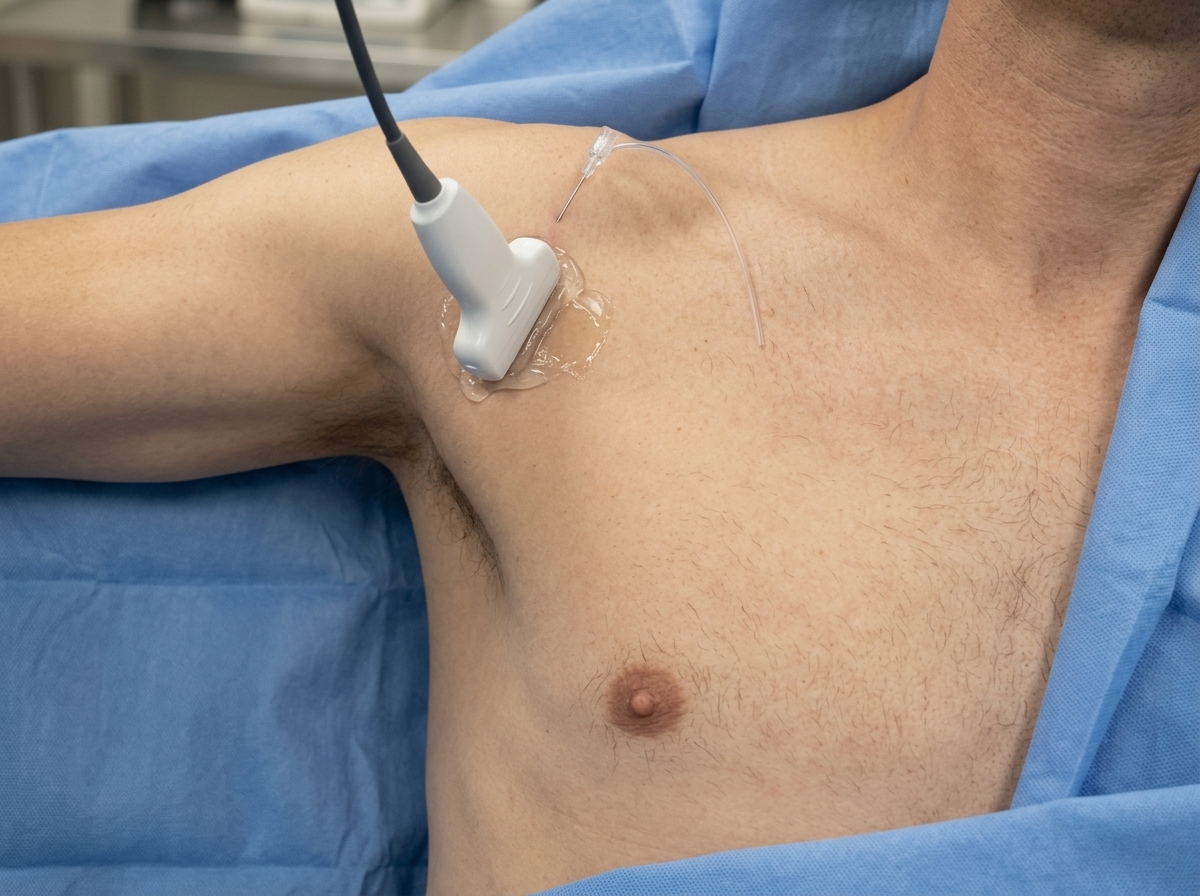
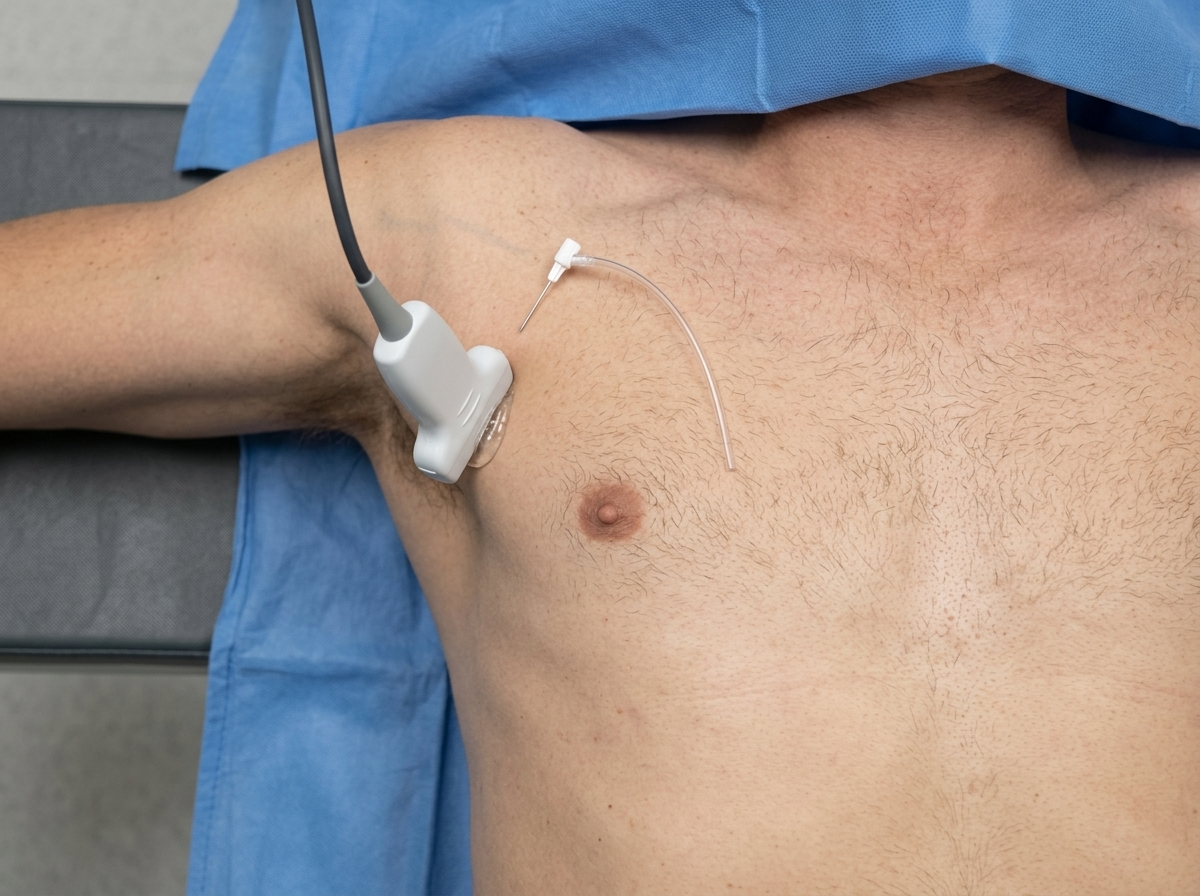
PENG (2), PECS anatomy, pericardiocentesis needle path: ship the approved plates; PECS II position
PECS record (owner, 2026-10-02): the PECS II step and the positioning slot
now say to slide the transducer inferolaterally to the 3rd-4th rib at the
anterior axillary line, where serratus comes into view. The positioning
photo is repainted at that position (review draft). Search ranking
baseline updated for the resulting improvement (block_pecs 'chest block'
#6 -> #5).

diff --git a/visuals/pecs_patient_position/draw.py b/visuals/pecs_patient_position/draw.py
@@ -6,10 +6,14 @@ patient's right on the image left (house laterality), so the abducted arm
 runs off the left edge and the sternum is at the right.
 
 Record: supine, arm abducted to 90 degrees; transducer oblique below the
-lateral third of the clavicle; needle in-plane from medial to lateral.
+lateral third of the clavicle, then slid inferolaterally to the 3rd-4th rib
+at the anterior axillary line for PECS II (owner, 2026-10-02: the probe
+belongs at the PECS II position, matching the section); needle in-plane
+from medial to lateral.
 
-Drawn: the linear probe below the lateral third of the clavicle, about 5 cm
-down at the 3rd-4th rib level, its long axis oblique - the medial end up
+Drawn: the linear probe at the PECS II position, over the 3rd-4th rib at
+the anterior axillary line, at the front edge of the armpit fold, above and
+lateral to the nipple, its long axis oblique - the medial end up
 and toward the clavicle, the lateral end down toward the axilla, across the
 ribs - with an upright handle and cable (the approved interscalene probe
 style); the needle entering just beyond the probe's medial (upper-right)
@@ -57,7 +61,7 @@ CLAVICLE = [(-6, 2), (-40, -2), (-80, -8), (-115, -6), (-150, -10)]
 AX_FOLD = [(-160, 80), (-140, 92), (-122, 102), (-104, 112)]
 NIPPLE = (-84.0, 104.0)
 STERNUM = [(0, 8), (0, 60), (0, 120), (0, 180)]
-PROBE_C, PROBE_LEN, PROBE_W = (-115.0, 42.0), 46.0, 9.0
+PROBE_C, PROBE_LEN, PROBE_W = (-128.0, 78.0), 46.0, 9.0
 DIR = (-0.5, 0.866)                # medial end -> lateral end (image: down and left)
 ANG = math.degrees(math.atan2(DIR[1], DIR[0]))
 MED_END = (PROBE_C[0] - DIR[0] * PROBE_LEN / 2, PROBE_C[1] - DIR[1] * PROBE_LEN / 2)

diff --git a/visuals/pecs_anatomy/draw.py b/visuals/pecs_anatomy/draw.py
@@ -1,8 +1,8 @@
 """PECS I / II block - the right chest wall in section under a linear probe (layout).
 
 Oblique section of the right anterior chest wall at the 3rd-4th rib level,
-along the probe of the positioning plate (below the lateral third of the
-clavicle, pointing toward the axilla): lateral (the axilla) on the image
+along the probe of the positioning plate (the PECS II position: the 3rd-4th
+rib at the anterior axillary line, pointing toward the axilla): lateral (the axilla) on the image
 left, medial on the right, skin at the top - the same way round as the
 positioning plate, where the needle comes in from the medial end.
 
